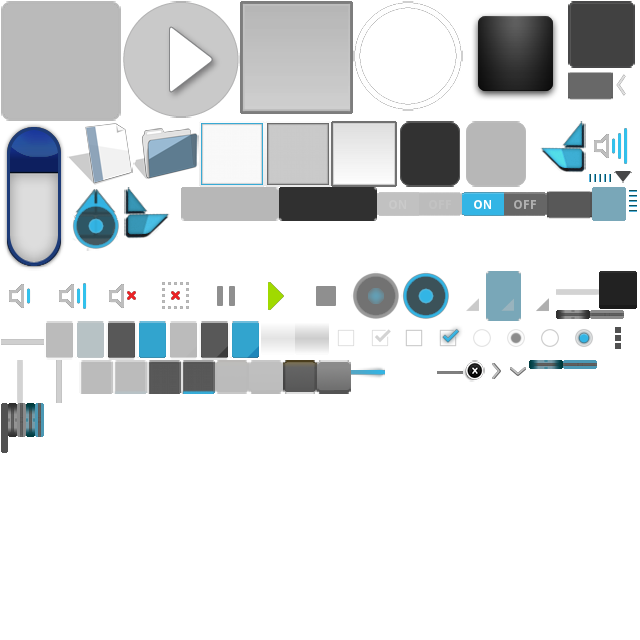
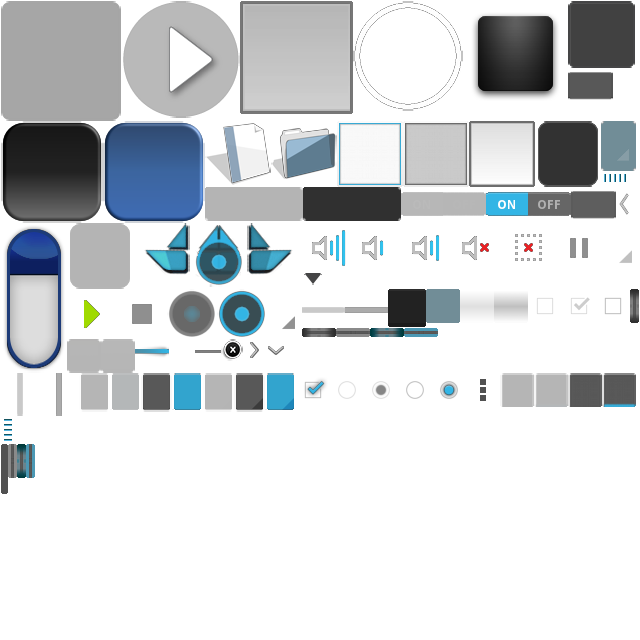
Added on screen keyboard support and updated style and atlas to latest btp version. ref #128

Changed region(s): [[0.0, 0.1875, 1.0, 0.7812], [0.875, 0.375, 0.9375, 0.4062], [0.8125, 0.375, 0.8438, 0.4062]]

diff --git a/main-nm.py b/main-nm.py
@@ -17,12 +17,9 @@
 
 __author__ = 'stas Zytkiewicz stas@childsplay.mobi'
 
-import os
-# Will setup logging
 import sys
 
 import SPLogging
-import utils
 
 SPLogging.set_level('debug')
 SPLogging.start()
@@ -41,16 +38,40 @@ resource_add_path('patches')
 ##########################################################
 
 from utils import *
-set_locale()
+lang, RTL = set_locale()
 
 from kivy.config import Config
 # print("**** enable the inspector ****")
 # Config.set('modules', 'inspector', 1)
-print(environ.keys())
+#print(environ.keys())
 if 'DEBUG' not in environ.keys():
     Config.set('graphics', 'fullscreen', 'auto')
 else:
     Config.set('modules', 'inspector', 1)
+
+# --- Keyboard Configuration must happen before Window import ---
+# we always set the keyboard to system and the current locale
+if lang[:5] == 'es_ES':
+    vk_lang = 'es_ES'
+else:
+    vk_lang = 'en_US'
+
+# we check if a USB keyboard is connected or not
+cmd = "lsusb -v 2>/dev/null | egrep '(^Bus|Keyboard)' | grep -B1 Keyboard"
+child = subprocess.Popen(cmd, shell=True, stdin=subprocess.PIPE, stdout=subprocess.PIPE)
+result = child.communicate()[0]
+
+if 'Keyboard' in result.decode('utf-8'):
+    vk_mode = 'system'
+else:
+    vk_mode = 'dock' # 'systemanddock' often fails to fall back on Linux
+
+if os.environ.get('DEBUG', False):
+    vk_mode = 'dock'
+
+Config.set('kivy', 'keyboard_mode', vk_mode)
+Config.set('kivy', 'keyboard_layout', vk_lang)
+# ---------------------------------------------------------------
 
 from functools import partial
 
@@ -70,9 +91,21 @@ from kivy.core.window import Window
 from kivy.animation import Animation
 from kivy.uix.boxlayout import BoxLayout
 from kivy.app import App
+from kivy.uix.vkeyboard import VKeyboard
 
 base = os.path.dirname(os.path.abspath(__file__))
 Builder.load_file(os.path.join(base, 'main-nm.kv'))
+
+class BTPKeyboard(VKeyboard):
+    def __init__(self, **kwargs):
+        super(BTPKeyboard, self).__init__(**kwargs)
+        self.size_hint = (0.8,0.3)
+        #self.opacity = 0.7
+        self.key_border = [0, 10, 0, 10]
+        self.setup_mode()
+
+Window.set_vkeyboard_class(BTPKeyboard)
+
 
 
 updater_text = _("""Your about to start the updater which will update this system.
@@ -145,7 +178,7 @@ class InputDialog(Popup):
         """
         super(InputDialog, self).__init__(title=title, size_hint=(0.9, 0.4), auto_dismiss=False)
         self.auto_dismiss = False
-        self.pos_hint = {'center_y': 0.5}
+        self.pos_hint = {'center_y': 0.7}
         self.content = _InputContent(obs, parent=self, **kwargs)
         self.border = (74, 32, 74, 32)
 
@@ -464,7 +497,9 @@ class Controller:
             reset_connection(ssid)
         elif result == -1:
             # Unknown connection, needs a password (probably)
-            InputDialog(obs=partial(self._get_wifi_pass, ssid)).open()
+            dlg = InputDialog(obs=partial(self._get_wifi_pass, ssid))
+            dlg.open()
+            dlg.content.ids.input.focus = True
         else:
             obj.state = 'down'
             obj.connected_state = True
